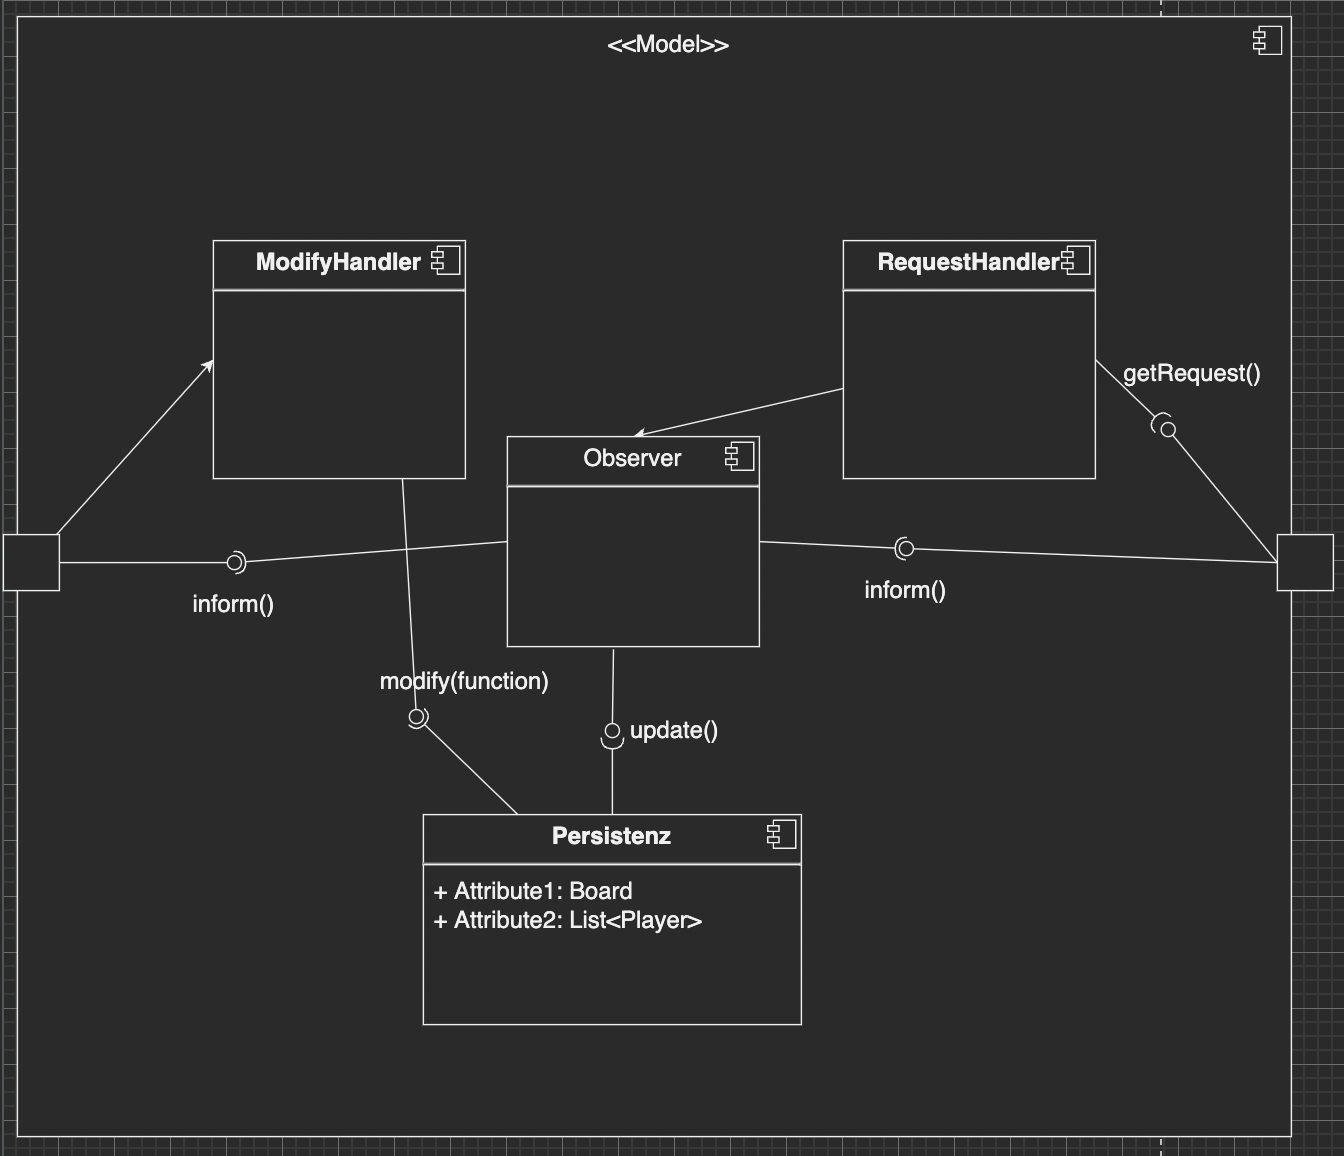
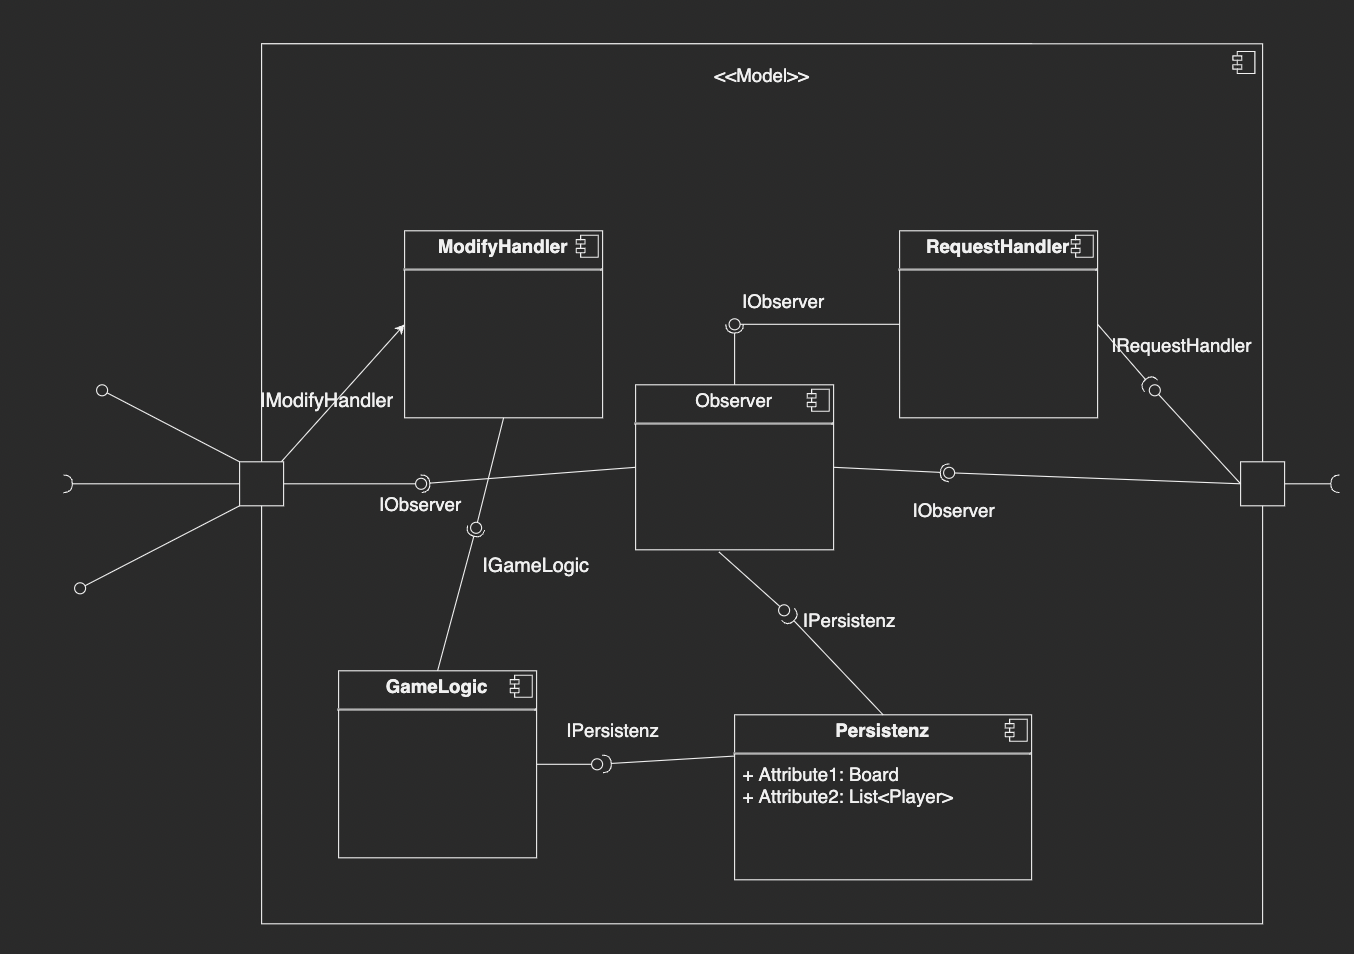
Baustein Ebene 2 Model verändert und Tabelle für die Interfaces hinzugefügt.

diff --git a/Arc42/arc42-template-DE.md b/Arc42/arc42-template-DE.md
@@ -534,6 +534,12 @@ Blackbox-Templates:
 ![E2 Model](Assets/Tron-BausteinSicht Ebene 2 Model.png)
 ![E2 View](Assets/Ebene_2_View.png "E2 View")
 
+| Interface Name                                 | Method                                                                                                             
+|---------------------------------------------------|-----------------------------------------------------------------------------------------------------------------
+| void setPlayerCount(int default, int playerCount) | Ändert die Anzahl an Spielern für die nächste Runde                                                             
+| void startGame()                                  | Startet das Spiel und leitet die Wartephase ein                                                                 
+| void startRound()                                 | Startet den Countdown...                                                                                        
+
 Beschreiben Sie den inneren Aufbau (einiger) Bausteine aus Ebene 1 als
 Whitebox.
 
